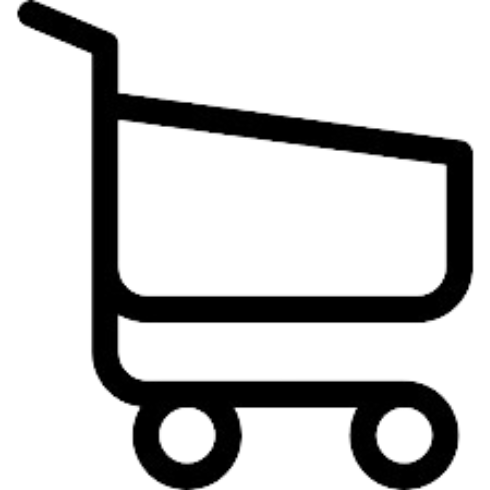
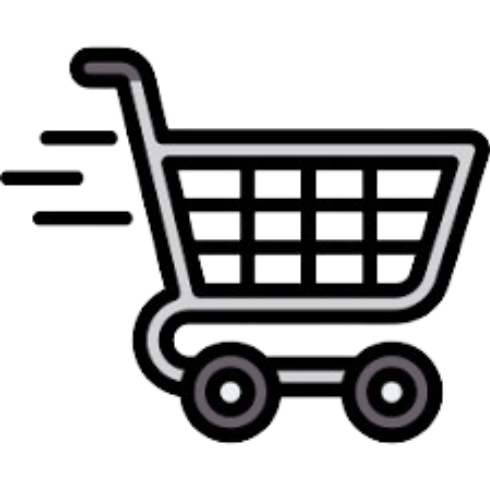
começando o js
bem no começo do js

diff --git a/index.html b/index.html
@@ -6,71 +6,97 @@
     <link rel="stylesheet" href="style.css">
     <title>Document</title>
 </head>
-<body>
+<body class="">
     <header id="image">    
         <img id="pesquisa" src="./pes.png">
         <img id="logo" src="./milka.png">  
-        <a href=""><img id="carrinho" src="./carrinho.png" alt=""></a>
+        <button id="carrinho"><img  id="car" src="./carrinho.png" alt=""></button>
     </header>
 
-    <main id="img">
-        <h1>Ovos de Páscoa</h1>
+    <main>
+        <div id="titulo">Ovos de Páscoa</div>
         <div class="caixa">
             <img id="ftOvo" src="./leite.webp" alt="" srcset="">
             <h2>Ovo de páscoa Milka</h2>
-            <p>R$199,00</p>
-            <button>Adicionar ao carrinho</button>    
+            <p class="preco">R$199,00</p>
+            <button class="add">Adicionar ao carrinho</button>    
         </div>
 
         <div class="caixa">
             <img id="ftOvo" src="ovo milka.jpg" alt="" srcset="">
             <h2>Ovo de páscoa Milka</h2>
-            <p>R$199,00</p>
-            <button>Adicionar ao carrinho</button>
+            <p class="preco">R$199,00</p>
+            <button class="add">Adicionar ao carrinho</button>
         </div>
 
         <div class="caixa">
             <img id="ftOvo" src="Almendras.webp" alt="" srcset="">
             <h2>Ovo de páscoa Milka</h2>
-            <p>R$199,00</p>
-            <button>Adicionar ao carrinho</button>
+            <p class="preco">R$199,00</p>
+            <button class="add">Adicionar ao carrinho</button>
         </div>
 
         <div class="caixa">
             <img id="ftOvo" src="cookie.png" alt="" srcset="">
             <h2>Ovo de páscoa Milka</h2>
-            <p>R$199,00</p>
-            <button>Adicionar ao carrinho</button>
+            <p class="preco">R$199,00</p>
+            <button class="add">Adicionar ao carrinho</button>
         </div>
 
         <div class="caixa">
             <img id="ftOvo" src="creme de avelã.png" alt="" srcset="">
             <h2>Ovo de páscoa Milka</h2>
-            <p>R$199,00</p>
-            <button>Adicionar ao carrinho</button>
+            <p class="preco">R$199,00</p>
+            <button class="add">Adicionar ao carrinho</button>
         </div>
 
         <div class="caixa">
             <img id="ftOvo" src="pistache.png" alt="" srcset="">
             <h2>Ovo de páscoa Milka </h2>
-            <p>R$199,00</p>
-            <button>Adicionar ao carrinho</button>
+            <p class="preco">R$199,00</p>
+            <button class="add">Adicionar ao carrinho</button>
         </div>
 
         <div class="caixa">
             <img id="ftOvo" src="brigadeiro.png" alt="" srcset="">
             <h2>Ovo de páscoa Milka</h2>
-            <p>R$199,00</p>
-            <button>Adicionar ao carrinho</button>
+            <p class="preco">R$199,00</p>
+            <button class="add">Adicionar ao carrinho</button>
         </div>
 
         <div class="caixa">
             <img id="ftOvo" src="morango.png" alt="" srcset="">
             <h2>Ovo de páscoa Milka</h2>
-            <p>R$199,00</p>
-            <button>Adicionar ao carrinho</button>
+            <p class="preco">R$199,00</p>
+            <button class="add">Adicionar ao carrinho</button>
         </div>
 
+        <div class="cartab">
+        <h1>CARRINHO</h1>
+          <div class="listCart">
+            <div class="item">
+                <div class="imgs">
+                    <img src="Almendras.webp" alt="">
+                </div>
+                <div class="nome">
+                    NOME
+                </div>
+                <div class="precoTotal">
+                    R$199
+                </div>
+                <div class="quantidade">
+                    <span class="menos">-</span>
+                    <span>1</span>
+                    <span class="mais">+</span>
+                </div>
+            </div>
+
+          </div>
+         <div class="btn">
+            <button class="close">Fechar</button>
+            <button class="pagamento">Pagamento</button>
+         </div>
+        </div>
         
     </main>
 

diff --git a/style.css b/style.css
@@ -9,7 +9,7 @@
 }
 main{
     background-color:#7E69AC;
-    height: 900px;
+    height: 2900px;
     width: 100%;
 }
 footer{
@@ -17,10 +17,11 @@ footer{
     height: 230px;
     width: 100%;
 }
-h1{
+#titulo{
     text-align: center;
     font-family: 'Gill Sans', 'Gill Sans MT', Calibri, 'Trebuchet MS', sans-serif;
     color: #504074;
+    font-size: 40px;
 }
 h2{
     font-family:'Times New Roman', Times, serif;
@@ -68,10 +69,29 @@ p{
 }
 
 #carrinho{
-    height: 40px;
+    height: 60px;
+    width: 60px;
+    opacity: 0.5;
+    margin-top: 20px;
+    display:flex;
+    float: right;
+    background-color: #504074;
+    border: none;
+    cursor: pointer;
+    margin-right: 15px;
+    
+
+    /*height: 40px;
     float: right;
     margin-right: 10px;
     margin-top: 25px;
+    /*/
+}
+#car{
+    width: 60px;
+    height: 60px;
+    
+
 }
 #vcs{
     width: 300px;
@@ -101,12 +121,69 @@ p{
     
     transition: 1s;
 }
-button{
+.cartab{
+    width: 400px;
+    background-color: #555;
+    color: white;
+    position: fixed;
+    inset:  0 -400px 0 auto;
+    display: grid;
+    grid-template-rows:  70px 1fr 70px;
+
+}
+body.mostrar .cartab{
+    inset: 0 0 0 auto;
+}
+.cartab h1{
+    padding: 20px;
+    margin: 0;
+    font-weight: 300;
+}
+.cartab .btn{
+    display: grid;
+    grid-template-columns: repeat(2, 1fr);
+}
+.cartab .btn button{
+    background-color: #FFC300;
+    border: none;
+    font-weight: 500;
+    cursor: pointer;
+}
+.cartab .btn .close{
+   background-color: white; 
+}
+.cartab .listCart .item img{
+    width: 100%;
+}
+.cartab .listCart .item{
+    display: grid;
+    grid-template-columns: 70px 150px 50px 1fr;
+    gap: 10px;
+    text-align: center;
+    align-items: center;
+}
+.listCart .quantidade span{
+    display: inline-block;
+    width: 25px;
+    height: 25px;
+    background-color: white;
+    color: #555;
+    border: radius 50%; ;
+    cursor: pointer;
+}
+.listCart .quantidade span:nth-child(2){
+    background-color: transparent;
+    color:#eee
+}
+.listCart{
+    overflow: auto;
+}
+.add{
     margin-left: 20px;
     margin-top: 10px;
     height: 40px;
     width: 200px;
-    cursor: pointer;
+    cursor:pointer;
     border-radius: 10px;
     border: none;
     box-shadow: 0 4px 15px black;

diff --git a/script.js b/script.js
@@ -1,0 +1,10 @@
+let carrinho = document.querySelector('carrinho');
+let close = document.querySelector('close');
+let body = document.querySelector('body');
+
+carrinho.addEventListener('click', () => {
+    body.classList.toggle('mostrar')
+})
+close.addEventListener('click', () => {
+     body.classList.toggle('mostrar')
+})
